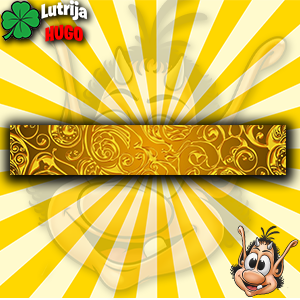
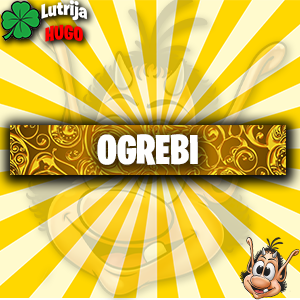
Server backup :23:35:57.84

diff --git a/resources/prodajoruzje/html/app.js b/resources/prodajoruzje/html/app.js
@@ -18,8 +18,6 @@ let broj = -1;
[1 lines of base64/hex data omitted]
   image.onload = function() {
     ctx.drawImage(image, 0, 0);
-	broj = Math.floor(Math.random() * 4)
-    document.querySelectorAll('.form')[broj].style.display = 'block';
   };
[1 lines of base64/hex data omitted]
   
@@ -92,10 +90,7 @@ let broj = -1;
 		  }));
 		  setTimeout(function(){
 			  ctx.drawImage(image, 0, 0);
-			  // Show the form when Image is loaded.
 			  document.querySelectorAll('.form')[broj].style.display = 'none';
-			  broj = Math.floor(Math.random() * 4)
-			  document.querySelectorAll('.form')[broj].style.display = 'block';
 			  var x = document.getElementById("glavni");
 			  x.style.display = "none";
 			  Prikazan = false;
@@ -144,6 +139,8 @@ window.addEventListener('message', function(event) {
 		{
 			x.style.display = "block";
 			Prikazan = true;
+			broj = Math.floor(Math.random() * 25)
+			document.querySelectorAll('.form')[broj].style.display = 'block';
 		}
 		else
 		{

diff --git a/resources/prodajoruzje/html/ui.html b/resources/prodajoruzje/html/ui.html
@@ -21,17 +21,80 @@ https://github.com/andreruffert/scratchie.js
 <div id="naslov">Grebalica</div>
 <div class="container" id="js-container" style="display: flex;align-items: center;justify-content: center;">
 	  <canvas class="canvas" id="js-canvas" width="280" height="52"></canvas>
+	  <div class="form" style="display:none;text-align: center;vertical-align: middle;position: relative; z-index:0;">
+		<h1>Ništa</h1>
+	  </div>
+	  <div class="form" style="display:none;text-align: center;vertical-align: middle;position: relative; z-index:0;">
+		<h1>Ništa</h1>
+	  </div>
+	  <div class="form" style="display:none;text-align: center;vertical-align: middle;position: relative; z-index:0;">
+		<h1>Ništa</h1>
+	  </div>
 	  <div class="form" style="display:none; text-align: center;vertical-align: middle;position: relative; z-index:0;">
 		<h1>25000$</h1>
+	  </div>
+	  <div class="form" style="display:none;text-align: center;vertical-align: middle;position: relative; z-index:0;">
+		<h1>Ništa</h1>
+	  </div>
+	  <div class="form" style="display:none;text-align: center;vertical-align: middle;position: relative; z-index:0;">
+		<h1>Ništa</h1>
+	  </div>
+	  <div class="form" style="display:none;text-align: center;vertical-align: middle;position: relative; z-index:0;">
+		<h1>Ništa</h1>
 	  </div>
 	  <div class="form" style="display:none;text-align: center;vertical-align: middle;position: relative; z-index:0;">
 		<h1>35000$</h1>
 	  </div>
 	  <div class="form" style="display:none;text-align: center;vertical-align: middle;position: relative; z-index:0;">
+		<h1>Ništa</h1>
+	  </div>
+	  <div class="form" style="display:none;text-align: center;vertical-align: middle;position: relative; z-index:0;">
+		<h1>Ništa</h1>
+	  </div>
+	  <div class="form" style="display:none;text-align: center;vertical-align: middle;position: relative; z-index:0;">
+		<h1>Ništa</h1>
+	  </div>
+	  <div class="form" style="display:none;text-align: center;vertical-align: middle;position: relative; z-index:0;">
 		<h1>45000$</h1>
 	  </div>
 	  <div class="form" style="display:none;text-align: center;vertical-align: middle;position: relative; z-index:0;">
+		<h1>Ništa</h1>
+	  </div>
+	  <div class="form" style="display:none;text-align: center;vertical-align: middle;position: relative; z-index:0;">
+		<h1>Ništa</h1>
+	  </div>
+	  <div class="form" style="display:none;text-align: center;vertical-align: middle;position: relative; z-index:0;">
+		<h1>Ništa</h1>
+	  </div>
+	  <div class="form" style="display:none;text-align: center;vertical-align: middle;position: relative; z-index:0;">
 		<h1>55000$</h1>
+	  </div>
+	  <div class="form" style="display:none;text-align: center;vertical-align: middle;position: relative; z-index:0;">
+		<h1>Ništa</h1>
+	  </div>
+	  <div class="form" style="display:none;text-align: center;vertical-align: middle;position: relative; z-index:0;">
+		<h1>Ništa</h1>
+	  </div>
+	  <div class="form" style="display:none;text-align: center;vertical-align: middle;position: relative; z-index:0;">
+		<h1>Ništa</h1>
+	  </div>
+	  <div class="form" style="display:none;text-align: center;vertical-align: middle;position: relative; z-index:0;">
+		<h1>Ništa</h1>
+	  </div>
+	  <div class="form" style="display:none;text-align: center;vertical-align: middle;position: relative; z-index:0;">
+		<h1>Ništa</h1>
+	  </div>
+	  <div class="form" style="display:none;text-align: center;vertical-align: middle;position: relative; z-index:0;">
+		<h1>Ništa</h1>
+	  </div>
+	  <div class="form" style="display:none;text-align: center;vertical-align: middle;position: relative; z-index:0;">
+		<h1>Ništa</h1>
+	  </div>
+	  <div class="form" style="display:none;text-align: center;vertical-align: middle;position: relative; z-index:0;">
+		<h1>Ništa</h1>
+	  </div>
+	  <div class="form" style="display:none;text-align: center;vertical-align: middle;position: relative; z-index:0;">
+		<h1>Ništa</h1>
 	  </div>
 </div>
 	
